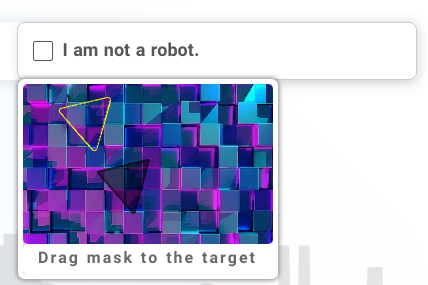
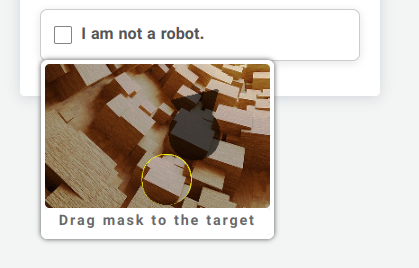
DOC(readme): add documentation for confusing system

diff --git a/README.md b/README.md
@@ -9,6 +9,7 @@ ACaptcha is a smart CAPTCHA solution designed to provide an easy and secure way 
 -   **Smart CAPTCHA**: Advanced algorithms to distinguish between human users and bots.
 -   **Easy Integration**: Simple to implement in your Laravel forms.
 -   **Customizable**: Publish your own JavaScript, CSS, and images for masks and backgrounds.
+-   **Confusable Design**: The masked images are crafted to be visually complex, making them difficult for OCR (Optical Character Recognition) systems to detect while remaining user-friendly for human interaction..
 
 ## Installation
 
